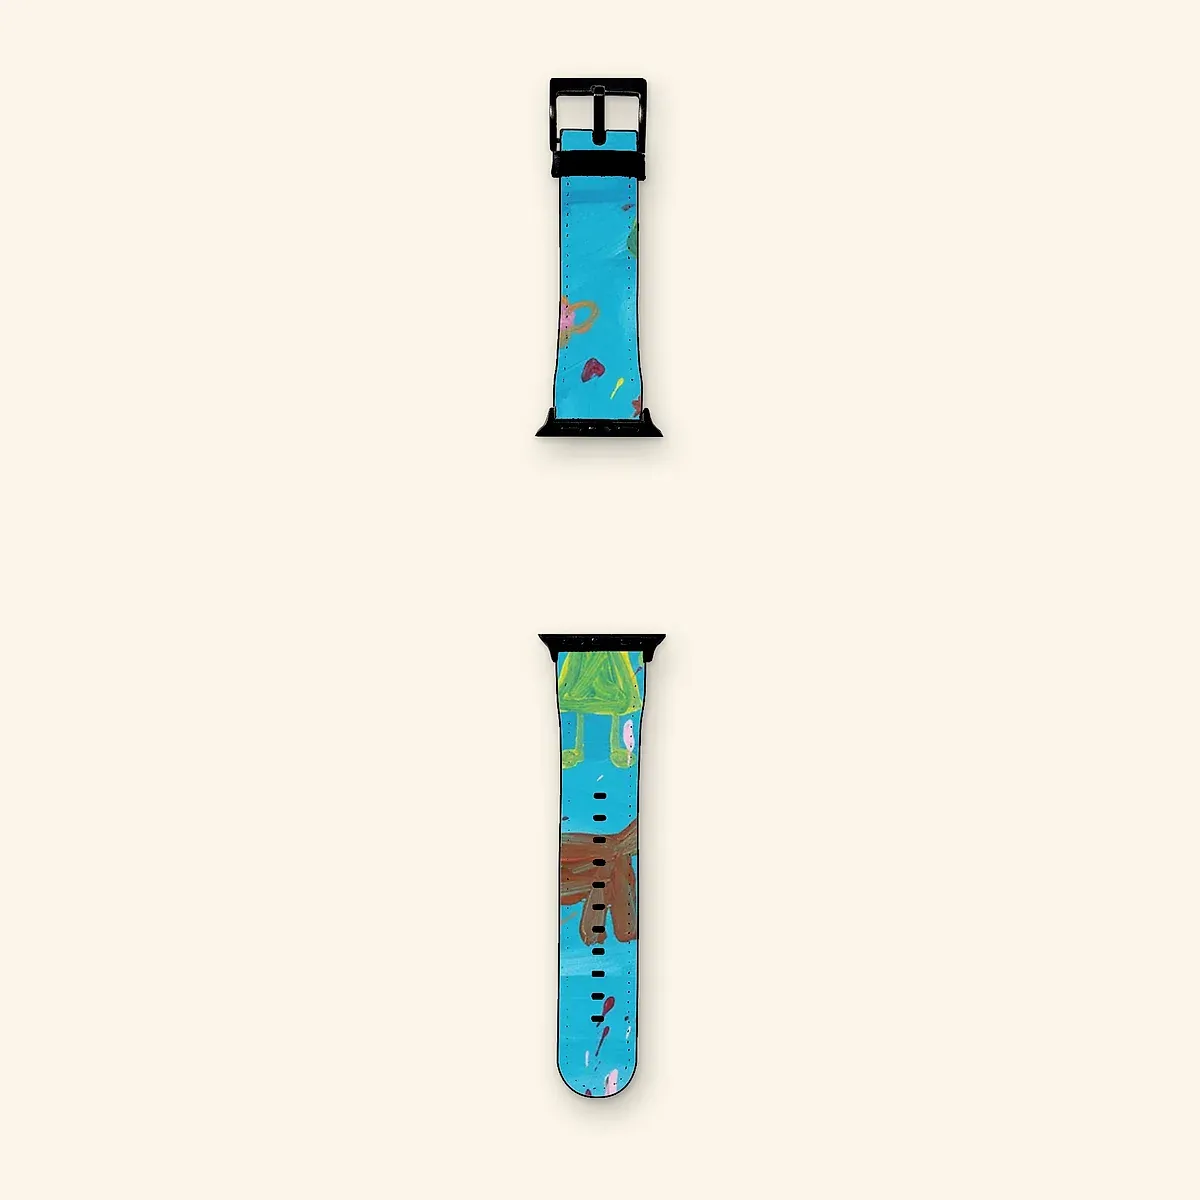
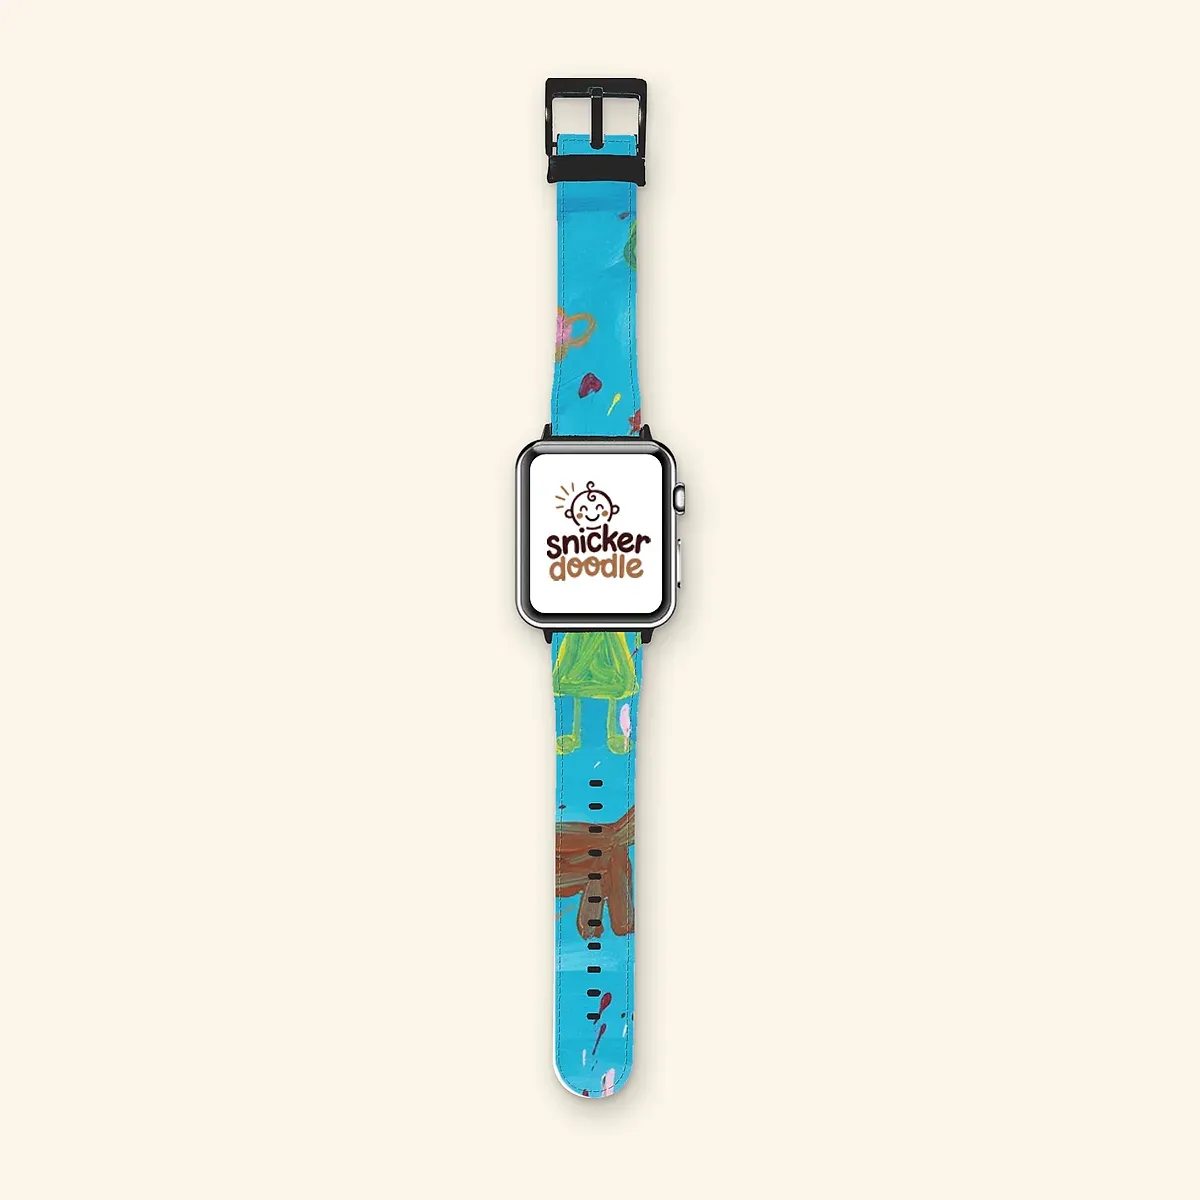
feat(strap): the founder's simpler strap photo (applewatch2.psd), embroidered edges, exactly what Prodigi prints
- New layers (founder, 5 Nov): just a print map (the two leather halves — white leather under the drawing)
  and an overlay (buckle, watch, holes), with the catalogue's standard backdrop + shadow. Its halves are in
  Prodigi's proportions (0.650 vs 0.654; gap 20% vs 19.5%) and are laid half by half as before.
- Exact: the strap's preview face is now cut to Prodigi's printed halves (template outline), so drawing never
  shows on a part of the strap Prodigi leaves blank (the 38 mm tip was a hair wider in the photo — 96 px of
  60k; now 0 on both sizes). Tested.
- Embroidery (founder): small, close, quietly shaded stitches a little in from each edge, round the buckle end
  and the tip, the sides running right up to the watch (open there, as on Prodigi's straps) — generated from
  the print map at compose time (compose-founder-layers stitch), over the drawing, under the buckle + watch.
- Re-rendered public/products/apple-watch-strap.webp.

Changed region(s): [[0.4008, 0.0617, 0.5858, 0.925]]

diff --git a/src/server/__tests__/global-uk-products.test.ts b/src/server/__tests__/global-uk-products.test.ts
@@ -17,6 +17,7 @@ import { isGroundProduct } from '@/lib/patterns';
 import { assessResolution, canvasSizePx, computeLayerRect, type Transform } from '@/server/print/geometry';
 import { plan } from '@/server/print/seedMockups';
 import { drawWatchStrapMockup } from '@/server/print/strapMockup';
+import { renderPrintedFace } from '@/server/print/compositor';
 
 /**
  * The APPLE WATCH STRAP — made in the UK since Prodigi's "global" change (5 Nov 2026 — project-office/briefs/
@@ -176,6 +177,23 @@ describe('the mockup pipeline — lights up when the founder’s layers are drop
       expect(top!.from[1]).toBeLessThan(fl0);
       expect([top!.from[0], top!.from[1]]).toEqual([0, bottom!.from[0]]);
       expect(bottom!.from[1]).toBe(1);
+    }
+  });
+
+  it('the strap’s preview face is cut to Prodigi’s printed halves: drawing only where it prints, see-through elsewhere', async () => {
+    for (const s of WATCH_STRAP_SIZES) {
+      const red = await sharp({ create: { width: 600, height: 800, channels: 3, background: '#ff0000' } }).png().toBuffer();
+      const face = await renderPrintedFace(red, 'strap', { widthPx: s.px.w, heightPx: s.px.h, bleedMm: 0, requiredDpi: 300 }, { scale: 1, offsetX: 0, offsetY: 0, rotationDeg: 0 });
+      const at = (fx: number, fy: number) => face.data[(Math.round(fy * (face.height - 1)) * face.width + Math.round(fx * (face.width - 1))) * face.channels + 3]!;
+      const [top, bottom] = s.pieces as [Array<[number, number, number]>, Array<[number, number, number]>];
+      // printed: the middle of each half
+      expect(at(0.5, (top[0]![0] + top.at(-1)![0]) / 2), s.size).toBe(255);
+      expect(at(0.5, (bottom[0]![0] + bottom.at(-1)![0]) / 2), s.size).toBe(255);
+      // not printed: behind the watch, the trimmed side bands, beyond the tip
+      expect(at(0.5, (top.at(-1)![0] + bottom[0]![0]) / 2), s.size).toBe(0);
+      expect(at(0.02, 0.2), s.size).toBe(0);
+      expect(at(0.98, 0.75), s.size).toBe(0);
+      expect(at(0.5, 0.998), s.size).toBe(0);
     }
   });
 

diff --git a/src/server/print/compositor.ts b/src/server/print/compositor.ts
@@ -21,7 +21,7 @@ import { composeLayoutTile, isLayoutProduct, layoutTileKey } from './bundleCompo
 import { isBundleKey } from '@/lib/christmas-bundle';
 import { frameGridForPx, isMultiPhotoFrameKey } from '@/lib/multi-photo-frame';
 import { renderFrameGridFacePixels } from './frameGrid';
-import { isWatchStrap, strapBands, strapSizeForCanvas } from '@/lib/watch-strap';
+import { isWatchStrap, strapBands, strapPiecePaths, strapSizeForCanvas } from '@/lib/watch-strap';
 import { visibleLayerPart } from './visibleLayer';
 
 /** Mug wrap geometry (11oz): the visible front face spans ~ARC° of the mug; the printed wrap
@@ -597,8 +597,13 @@ export async function renderPrintedFace(
     const rect = computeLayerRect({ printWidthPx: W, printHeightPx: H, bleedMm: 0, requiredDpi: print.requiredDpi * scale }, src, transform);
     const { part, left, top } = await visibleLayerPart(srcBuf, src, rect);
     const bg = groundHex === '#ffffff' ? { r: 0, g: 0, b: 0, alpha: 0 } : groundHex;
-    const { data, info } = await sharp({ create: { width: W, height: H, channels: 4, background: bg } })
-      .composite([{ input: part, left, top }])
+    // ONLY what Prodigi prints: the file cut to its two printed halves (the template's outline), so the preview
+    // never shows drawing on a part of the strap Prodigi leaves blank — there the white leather shows
+    const printed = strapPiecePaths(strapSizeForCanvas(W, H), { x: 0, y: 0, w: W, h: H });
+    const cut = Buffer.from(`<svg xmlns="http://www.w3.org/2000/svg" width="${W}" height="${H}">${printed.map((d) => `<path d="${d}" fill="#fff"/>`).join('')}</svg>`);
+    const placed = await sharp({ create: { width: W, height: H, channels: 4, background: bg } }).composite([{ input: part, left, top }]).png().toBuffer();
+    const { data, info } = await sharp(placed)
+      .composite([{ input: cut, blend: 'dest-in' }])
       .raw()
       .toBuffer({ resolveWithObject: true });
     return { data, width: info.width, height: info.height, channels: 4 };
